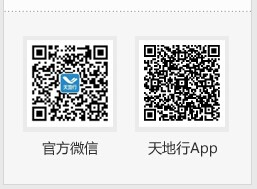
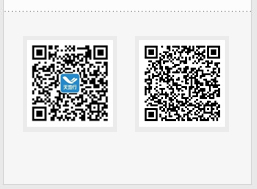
替换采购商国内首页二维码图片

diff --git a/采购商/国内首页-新.html b/采购商/国内首页-新.html
@@ -924,7 +924,7 @@ $(function(){
                     </div>
                     <div class="appstoreDiv">
                       <span class="appstoreCode"></span>
-                      <p><a class="app-link-text" href="http://sc1.tdxinfo.com/special/source/appjieshao.html" target="_blank">天地行iphone</a></p>
+                      <p><a class="app-link-text" href="http://sc1.tdxinfo.com/special/source/appjieshao.html" target="_blank">手机App</a></p>
                     </div>
                   </ul>
              </div> <!--right end-->
